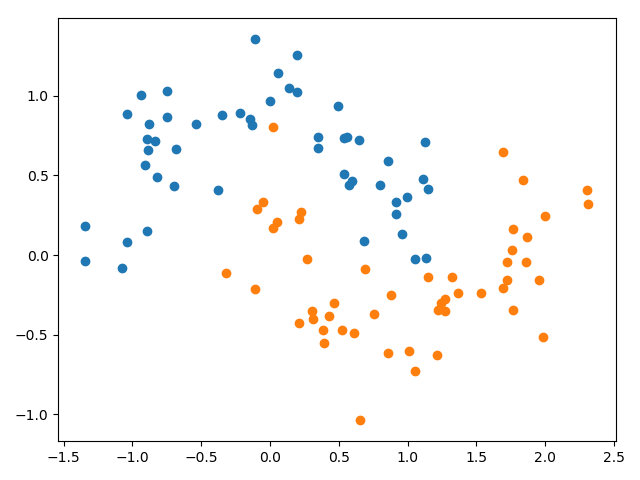
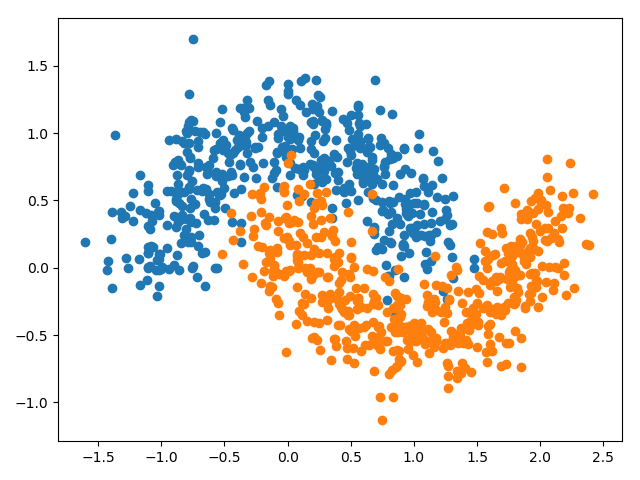
Increase dataset size from 100 to 1000.

diff --git a/18_halt_training_at_the_right_time_with_early_stopping/README.md b/18_halt_training_at_the_right_time_with_early_stopping/README.md
@@ -3,7 +3,7 @@
 ### Problem description
 
 A binary classification problem is used to demonstrate the effect of using early stopping to reduce overfitting of a
-model. Specifically, the problem has 2 input features and a dataset size of 100 with a noise of 0.2, which is contrived
+model. Specifically, the problem has 2 input features and a dataset size of 1000 with a noise of 0.2, which is contrived
 using the scikit-learn `make_moons()` function.
 
 <img src="images/problem.png" width="420">
